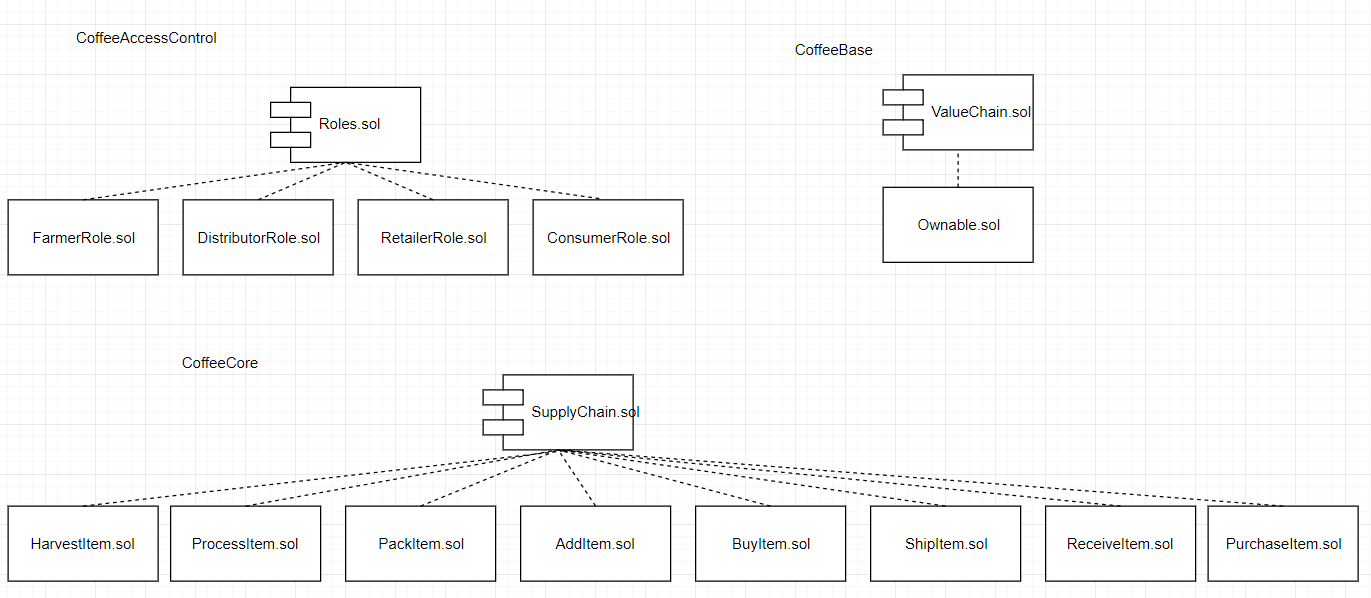
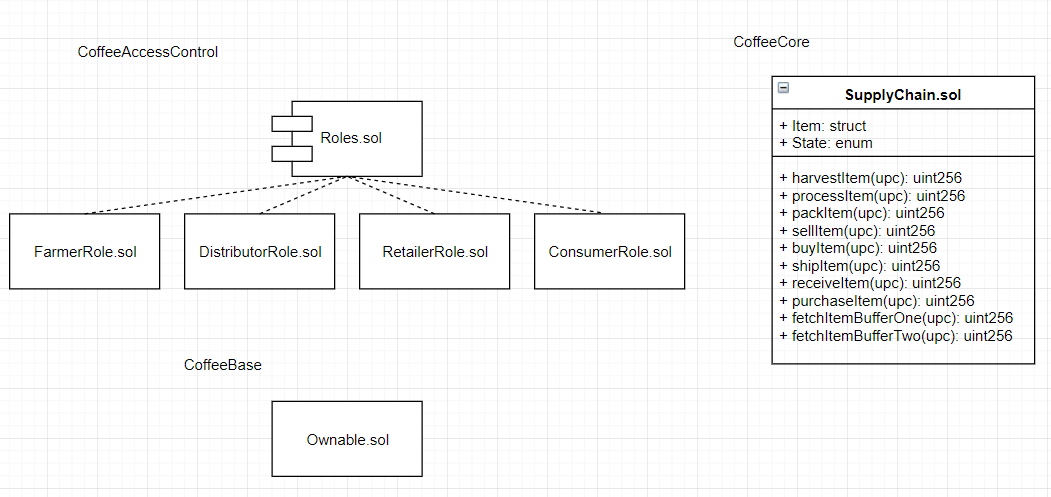
class diagram and README.md
Class.PNG: modified diagram of SupplyChain.sol

README.md : added Contract ID, URL and Transaction ID of the contract creation in Rinkeby.

diff --git a/README.md b/README.md
@@ -120,10 +120,21 @@ All tests are approved without error.
 
 ## Deploy smart contract on a public test network (Rinkeby)
 Smart contract is deployed on the Ethereum RINKEBY test network.
-
+```
+Contract ID: 0xe2c9aeBBE63326a07240D1aAC1B6389118fb86d5
+```
+```
+URL: https://rinkeby.etherscan.io/address/0xe2c9aebbe63326a07240d1aac1b6389118fb86d5
+```
+```
+Transaction ID of the contract creation in Rinkeby: 0x072f69759a0d6e5976030203e4234c643ffab0718e9729af6f510b74d496ddc2
+```
 ![alt text][image6]
+
 
 ## Modify client code to interact with a smart contract
 Client code interacts with smart contract.
-
+```
+https://rinkeby.etherscan.io/address/0xe2c9aebbe63326a07240d1aac1b6389118fb86d5#events
+```
 ![alt text][image7]
